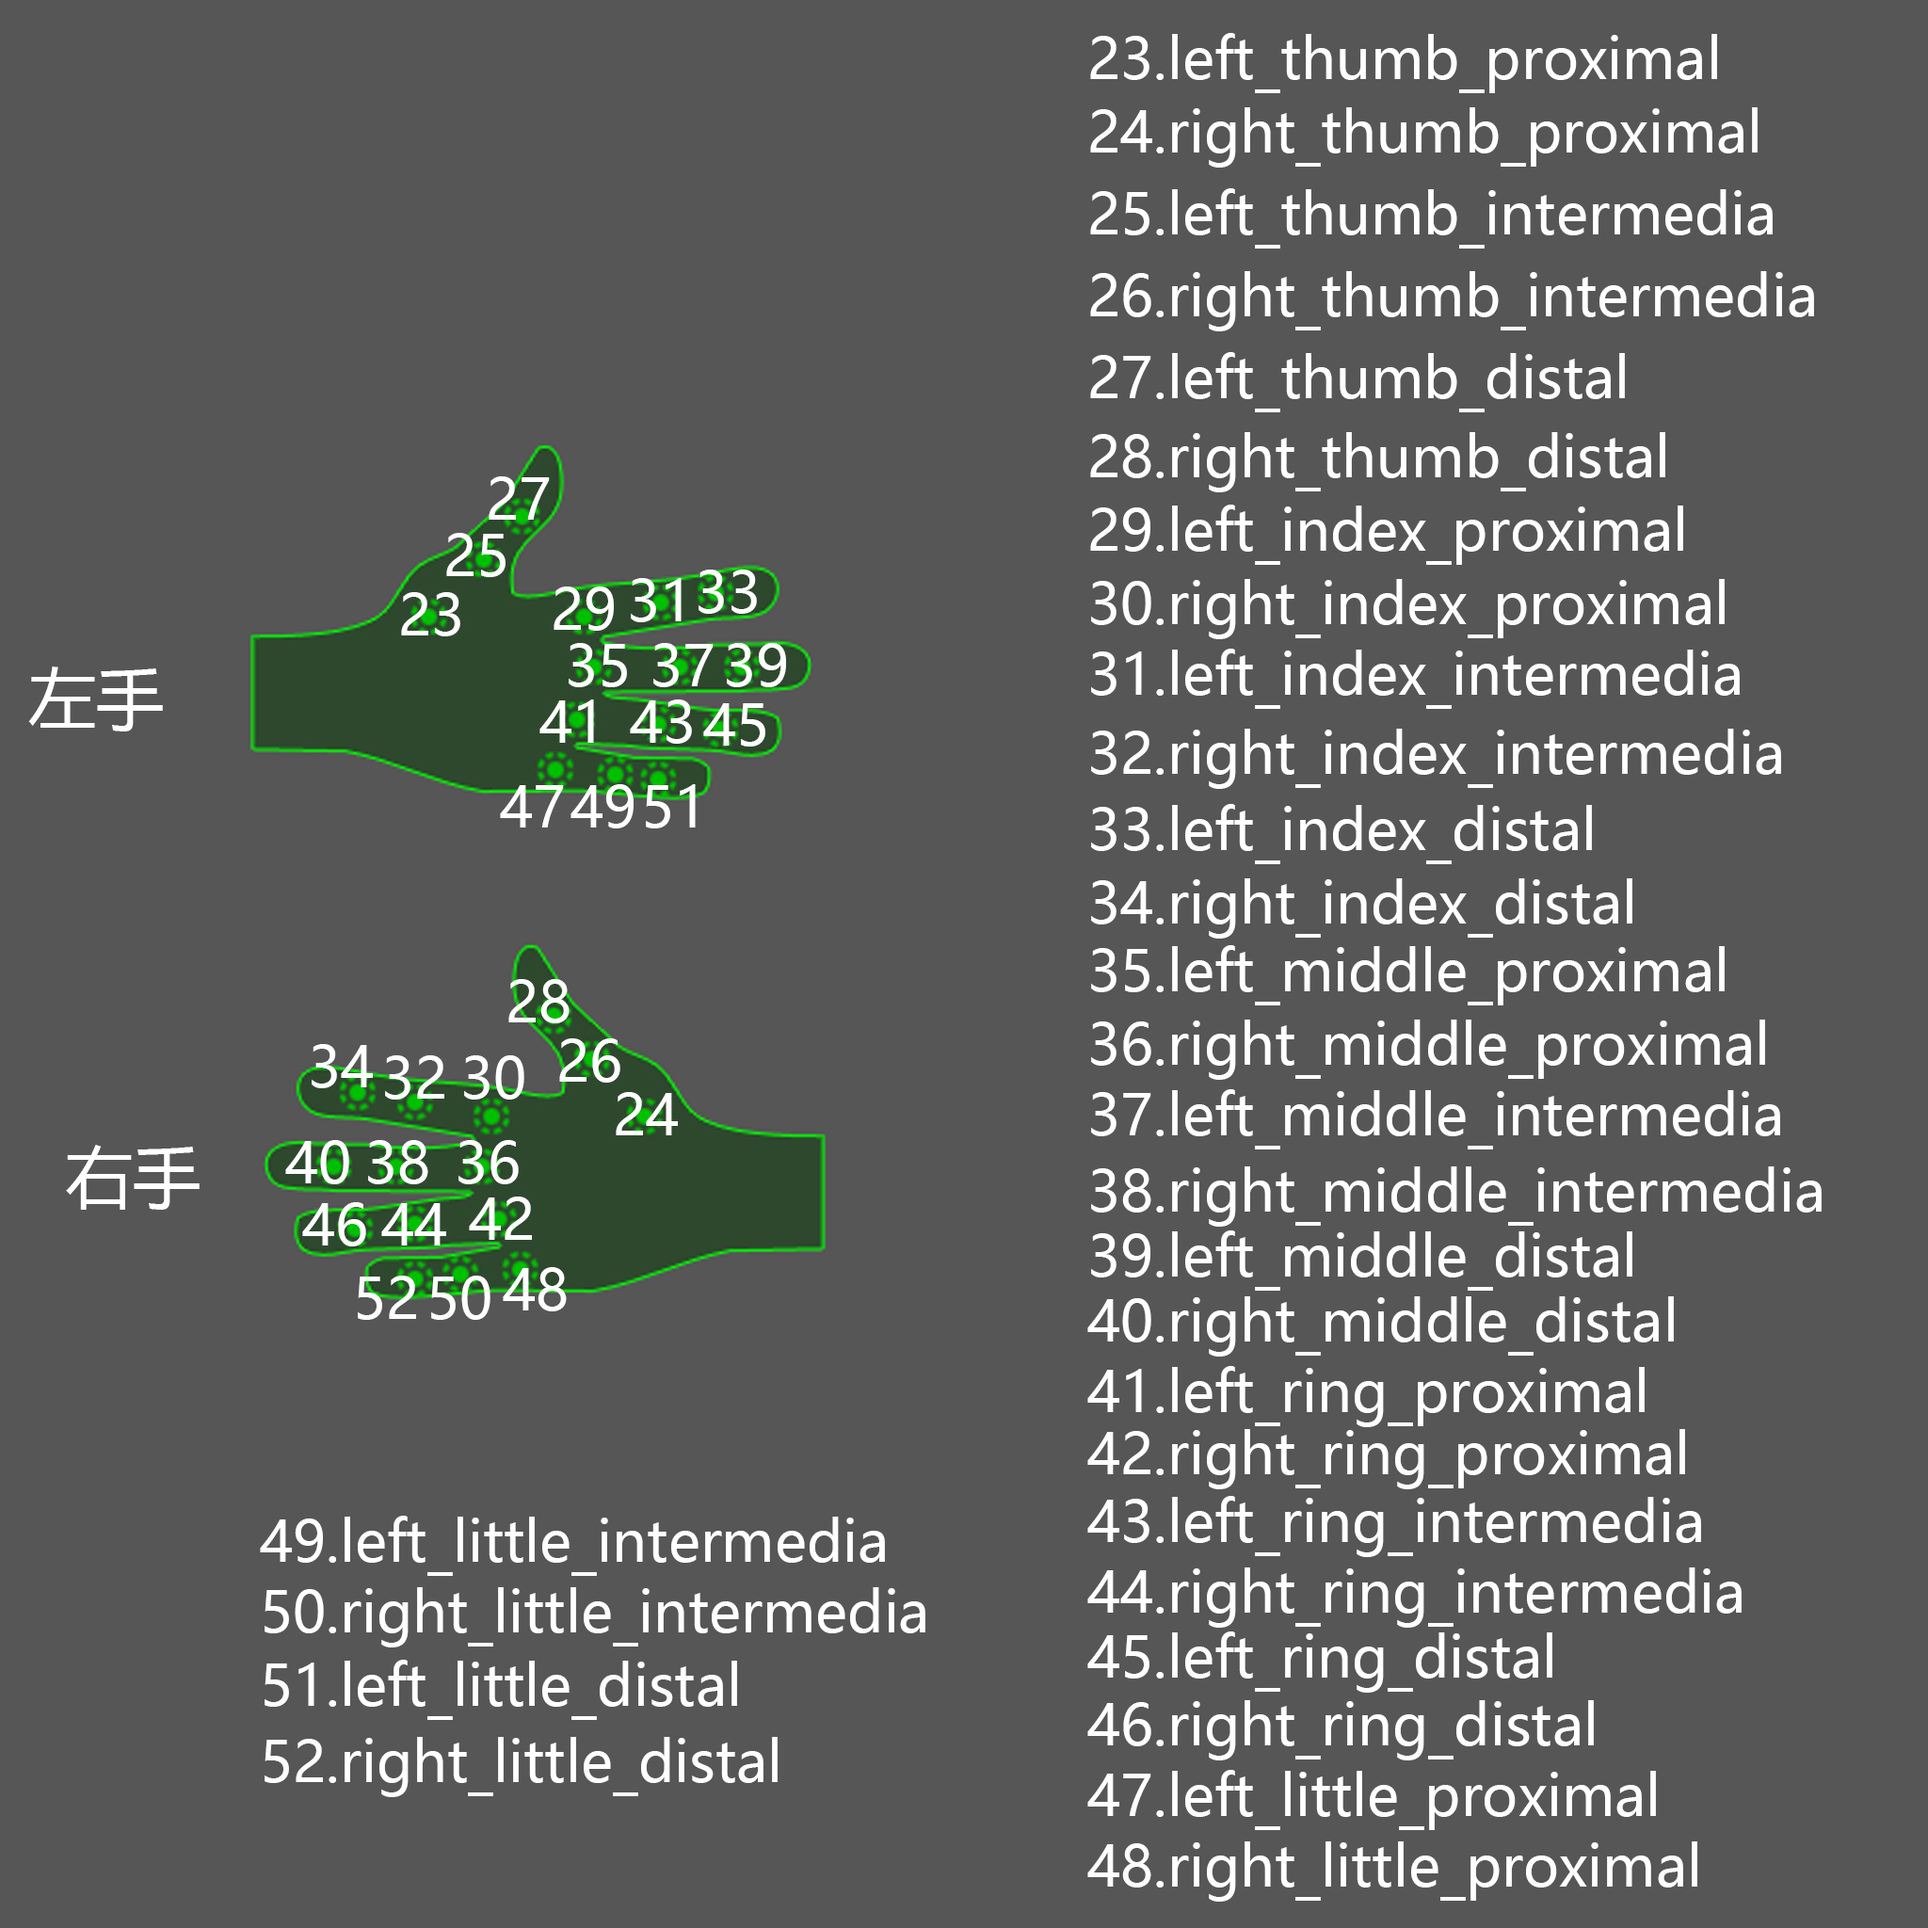
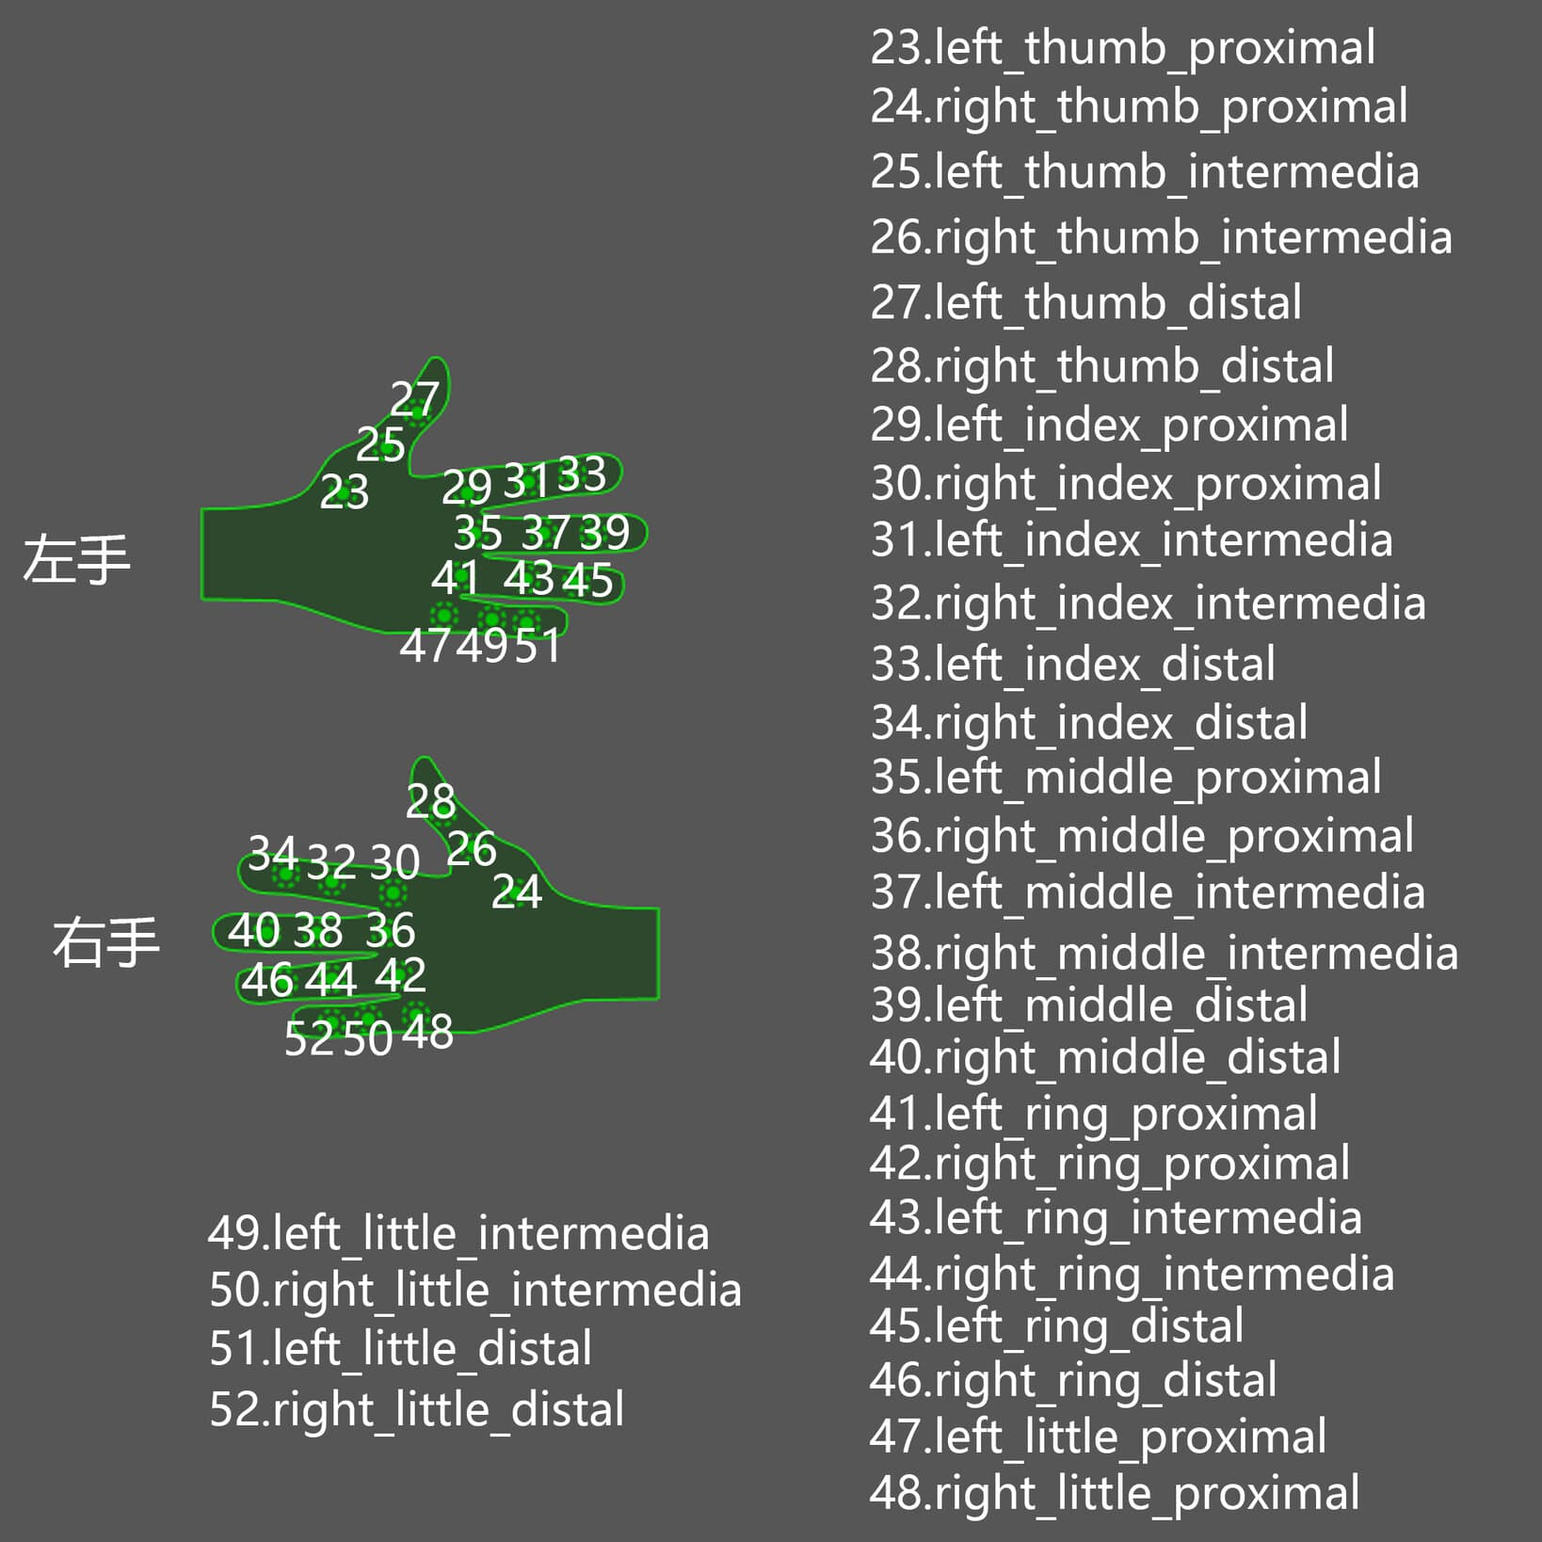
update

diff --git a/readme.md b/readme.md
@@ -1,18 +1,7 @@
 # Motion quality assessment for JDM
 
 
-## Skeleton topolopy
-
-![](data/topology/pose_tracking_full_body_landmarks.png)
-
-
 ## `fbx` to `npz` converter
-
-The original topology is as follows:
-
-| ![](data/topology/skeleton_body.jpg) | ![](data/topology/skeleton_hand.jpg) |
-| :----------------------------------: | :----------------------------------: |
-|                 Body                 |                 Hand                 |
 
 By the following script, the original data format can be converted from `fbx` to `npz`.
 
@@ -23,6 +12,11 @@ blender --background -P fbx2npz.py
 
 The original data is located in `./data/fbx`, while the obtained data is located in `./data/npz`.
 
-The obtained topology is as follows:
+The original topology and the converted topology are as follows:
 
-![](data/topology/topology.jpg)
+| ![](data/topology/skeleton_body.jpg) | ![](data/topology/skeleton_hand.jpg) | ![](data/topology/topology.jpg) |
+| :----------------------------------: | :----------------------------------: | :-----------------------------: |
+|                 Body                 |                 Hand                 |              Ours               |
+
+
+Compared with [MediaPipe Pose landmarks](https://google.github.io/mediapipe/solutions/pose.html#pose-landmark-model-blazepose-ghum-3d), ours has less joints in the face, hand and foot.
